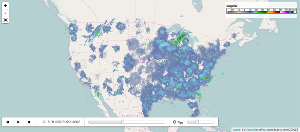
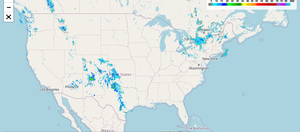
docs(examples): point example 14 to the nowCOAST GeoServer
The ArcGIS WMSServer endpoint is gone. Use the GeoServer
`conus_base_reflectivity_mosaic` layer (WMS 1.3.0) as a tiled WMS,
replace the time dimension with the service's rolling window and take
the legend from GetLegendGraphic. Refresh the index thumbnail.

diff --git a/examples/js/example14.js b/examples/js/example14.js
@@ -27,9 +27,9 @@ L.tileLayer('https://{s}.tile.osm.org/{z}/{x}/{y}.png', {
     attribution: '&copy; <a href="https://osm.org/copyright">OpenStreetMap</a> contributors'
 }).addTo(map);
 
-var wmsUrl = "https://nowcoast.noaa.gov/arcgis/services/nowcoast/radar_meteo_imagery_nexrad_time/MapServer/WMSServer"
-var radarWMS = L.nonTiledLayer.wms(wmsUrl, {
-    layers: '1',
+var wmsUrl = "https://nowcoast.noaa.gov/geoserver/observations/weather_radar/ows";
+var radarWMS = L.tileLayer.wms(wmsUrl, {
+    layers: 'conus_base_reflectivity_mosaic',
     format: 'image/png',
     transparent: true,
     opacity: 0.8,
@@ -37,7 +37,8 @@ var radarWMS = L.nonTiledLayer.wms(wmsUrl, {
 });
 
 var testTimeLayer = L.timeDimension.layer.wms(radarWMS, {
-    updateTimeDimension: false,
+    updateTimeDimension: true,
+    updateTimeDimensionMode: 'replace',
     wmsVersion: '1.3.0'
 });
 testTimeLayer.addTo(map);
@@ -47,10 +48,8 @@ var theLegend = L.control({
 });
 
 theLegend.onAdd = function(map) {
-    var src = "https://nowcoast.noaa.gov/images/legends/radar.png";
+    var src = wmsUrl + "?SERVICE=WMS&VERSION=1.3.0&REQUEST=GetLegendGraphic&LAYER=conus_base_reflectivity_mosaic&FORMAT=image/png";
     var div = L.DomUtil.create('div', 'info legend');
-    div.style.width = '270px';
-    div.style.height = '50px';
     div.innerHTML += '<b>Legend</b><br><img src="' + src + '" alt="legend">';
     return div;
 };

diff --git a/examples/example14.html b/examples/example14.html
@@ -47,7 +47,6 @@
 
         <script type="text/javascript" src="https://cdn.jsdelivr.net/npm/leaflet@1.5.1/dist/leaflet.js"></script>
         <script type="text/javascript" src="https://cdnjs.cloudflare.com/ajax/libs/leaflet.fullscreen/1.4.2/Control.FullScreen.min.js"></script>
-        <script type="text/javascript" src="https://cdn.jsdelivr.net/npm/leaflet.nontiledlayer@1.0.7/dist/NonTiledLayer.js"></script>
         <script type="text/javascript" src="https://cdn.jsdelivr.net/npm/iso8601-js-period@0.2.1/iso8601.min.js"></script>
 
         <script type="text/javascript" src="../src/leaflet.timedimension.js"></script>
